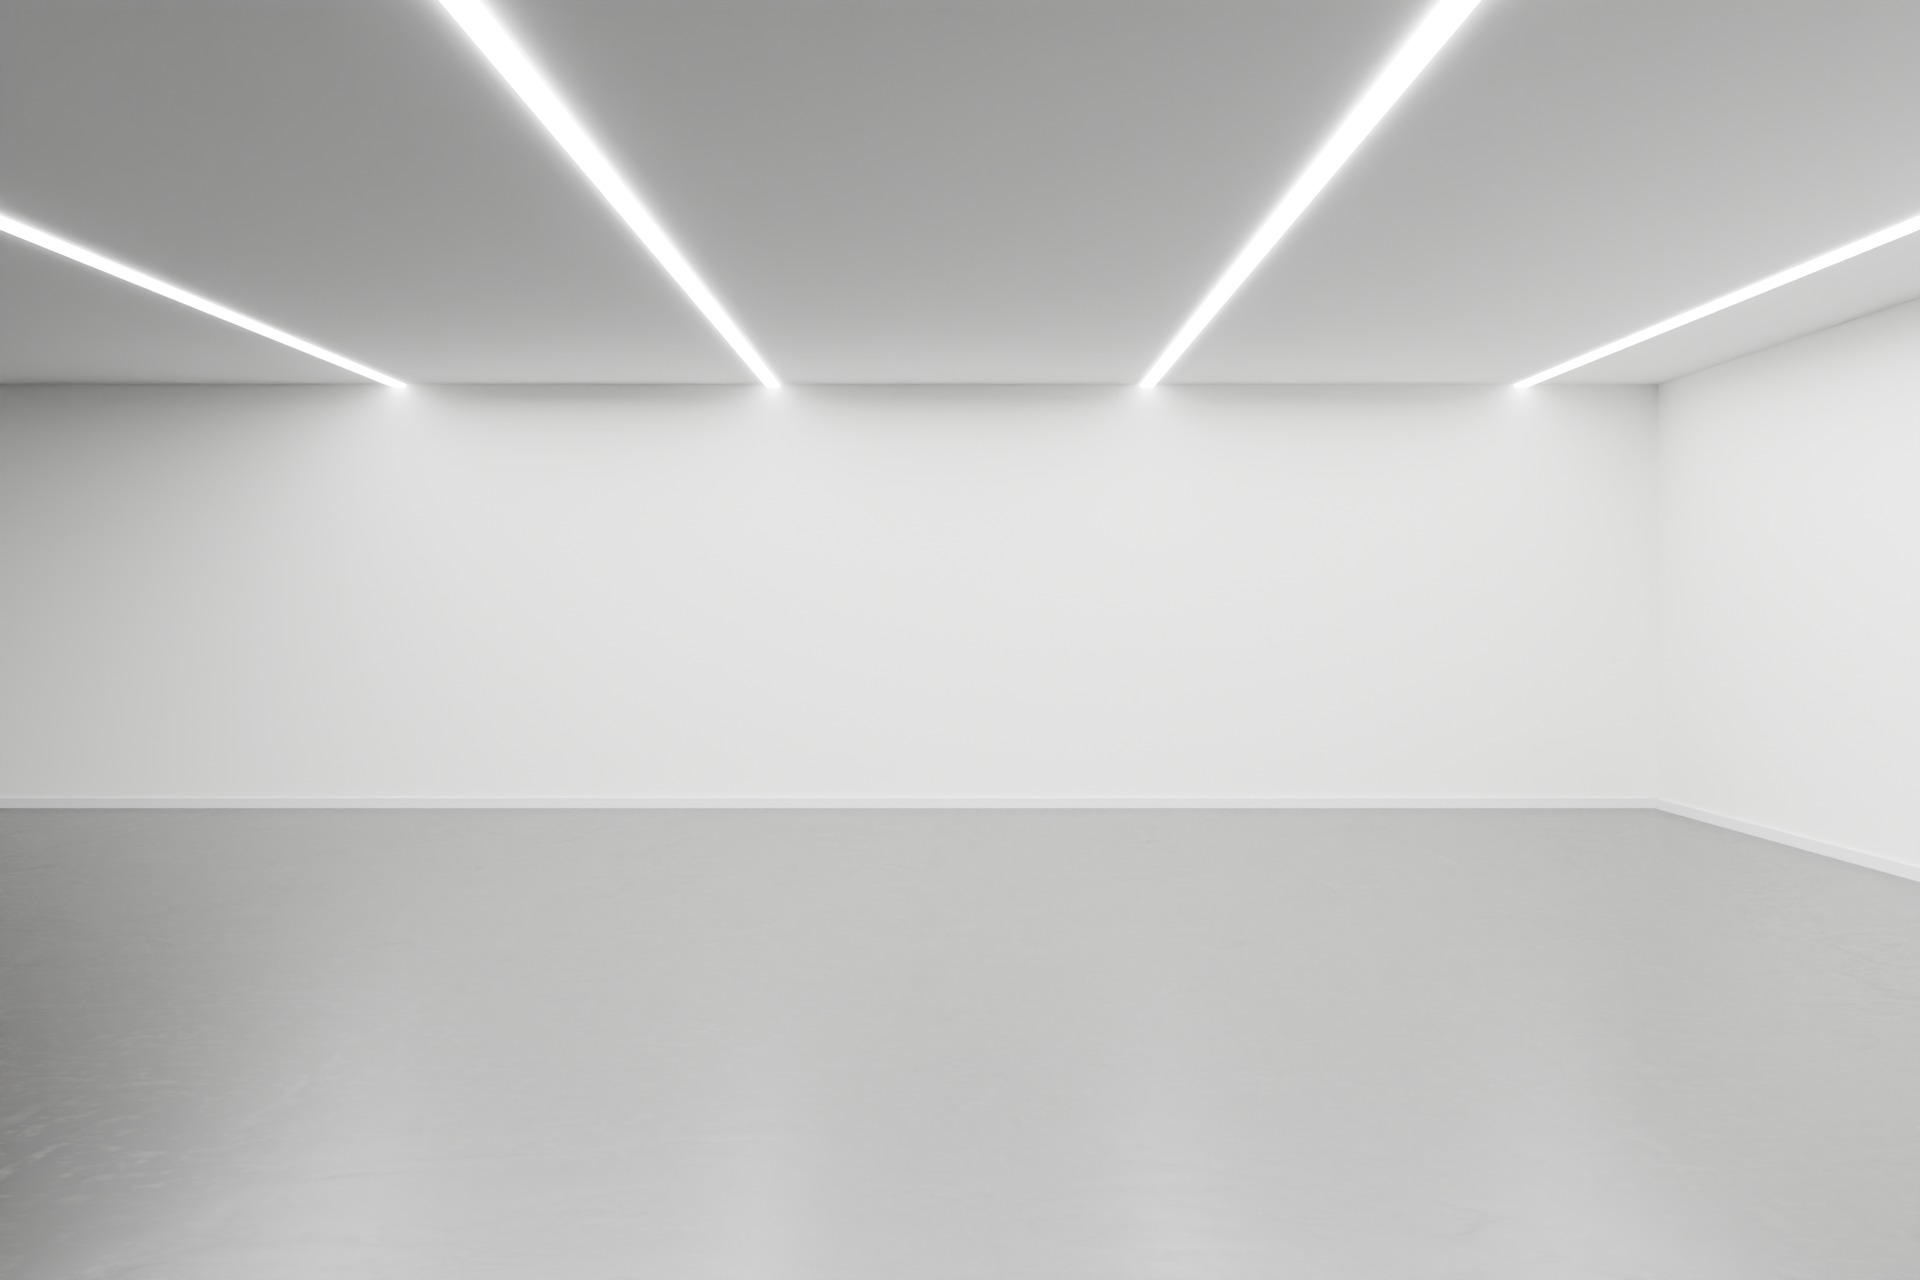
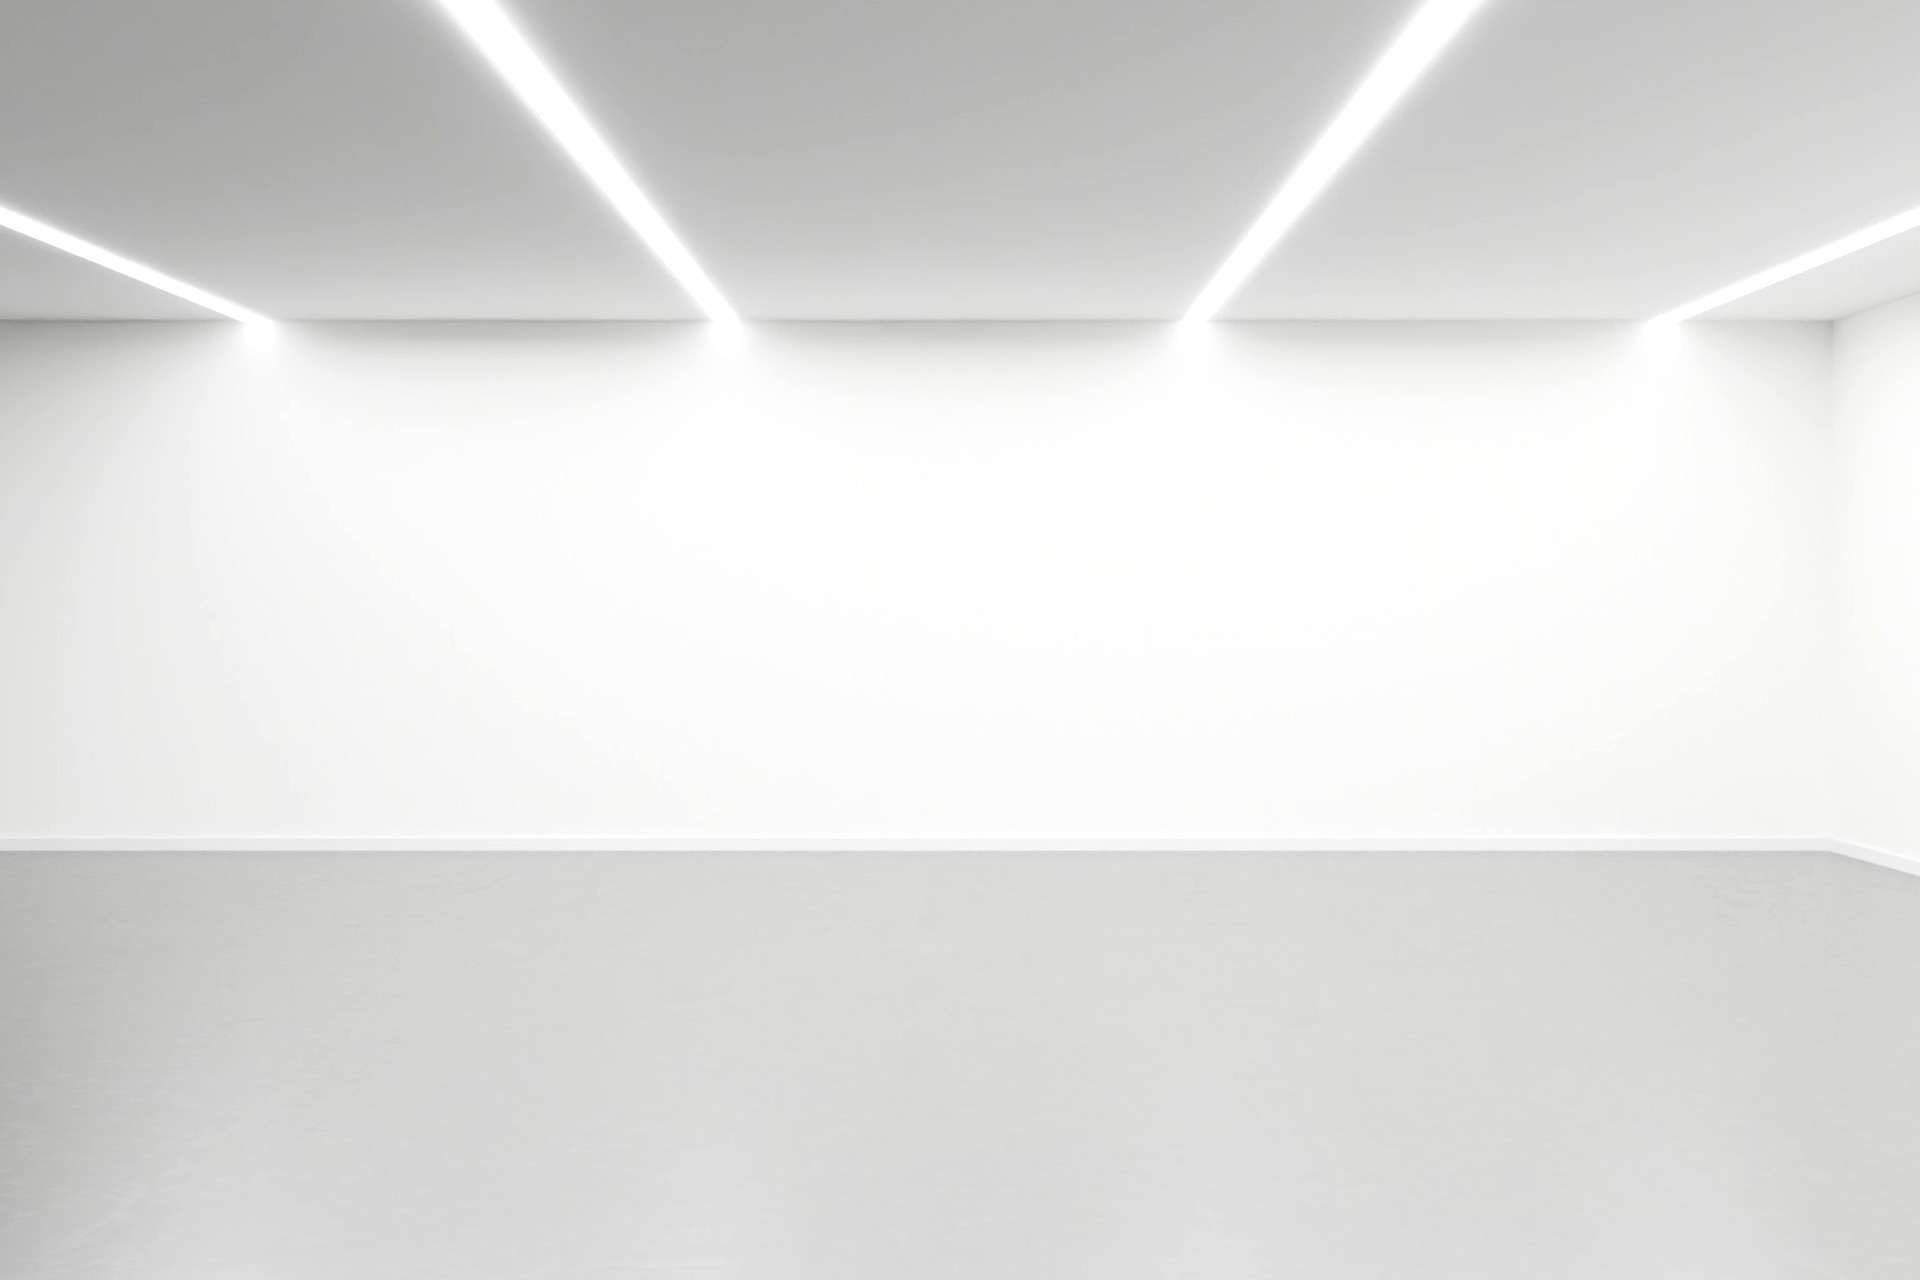
Raeume naeher herangeholt und aufgehellt, Fahrzeug nimmt 52 statt 60 Prozent der Breite

diff --git a/scripts/raeume-zoomen.ts b/scripts/raeume-zoomen.ts
@@ -1,0 +1,87 @@
+/*
+ * Alle Hintergruende naeher heranholen und aufhellen.
+ *
+ * ── Warum Zuschnitt und nicht "Auto kleiner" ──────────────────────
+ *
+ * Die Raeume wirkten eng und die Fahrzeuge zu gross. Das Fahrzeug
+ * kleiner zu rechnen waere der falsche Hebel: Dann steht ein winziges
+ * Auto in einem winzigen Raum, das Verhaeltnis bleibt gleich.
+ *
+ * Ein Zuschnitt dreht das Verhaeltnis wirklich um. Wird aus dem Bild
+ * ein Ausschnitt von 80 Prozent herausgeschnitten und wieder auf die
+ * volle Groesse gezogen, wachsen Wand, Boden und Leuchten um ein
+ * Viertel — das Fahrzeug aber nicht. Es wirkt dadurch kleiner, und der
+ * Raum groesser.
+ *
+ * ── Warum die .json mitwandern muss ───────────────────────────────
+ *
+ * Neben jedem Raum stehen Horizont und Wandlinie als Anteil der
+ * Bildhoehe. Nach einem Zuschnitt stimmen diese Anteile nicht mehr:
+ * Was vorher bei 46 Prozent lag, liegt im Ausschnitt woanders. Ohne
+ * Umrechnung wuerde der Kompositor das Fahrzeug an der falschen Stelle
+ * absetzen — es stuende in der Wand oder schwebte.
+ *
+ * Aufruf:
+ *   npx tsx scripts/raeume-zoomen.ts [anteil] [helligkeit]
+ *   npx tsx scripts/raeume-zoomen.ts 0.8 1.08
+ */
+import fs from 'fs';
+import path from 'path';
+import sharp from 'sharp';
+
+sharp.concurrency(1);
+
+const ORDNER = 'public/backgrounds/raum';
+const SICHERUNG = 'tools/proben/raeume_original';
+
+/** Rechnet einen Anteil der Bildhoehe auf den Ausschnitt um. */
+function imAusschnitt(wert: number, anteil: number): number {
+  const rand = (1 - anteil) / 2;
+  return Math.max(0, Math.min(1, (wert - rand) / anteil));
+}
+
+async function main() {
+  const anteil = Number(process.argv[2] ?? '0.8');
+  const helligkeit = Number(process.argv[3] ?? '1.08');
+  if (anteil <= 0.3 || anteil > 1) throw new Error('Anteil muss zwischen 0,3 und 1 liegen');
+
+  fs.mkdirSync(SICHERUNG, { recursive: true });
+  const dateien = fs.readdirSync(ORDNER).filter((d) => d.endsWith('.jpg'));
+
+  for (const datei of dateien) {
+    const quelle = path.join(ORDNER, datei);
+    const sicher = path.join(SICHERUNG, datei);
+    /* Nur beim ersten Lauf sichern, sonst waere die Sicherung selbst zugeschnitten. */
+    if (!fs.existsSync(sicher)) fs.copyFileSync(quelle, sicher);
+
+    const roh = fs.readFileSync(sicher);
+    const meta = await sharp(roh).metadata();
+    const b = meta.width ?? 0, h = meta.height ?? 0;
+    if (!b || !h) { console.log('uebersprungen (keine Masse):', datei); continue; }
+
+    const nb = Math.round(b * anteil), nh = Math.round(h * anteil);
+    const neu = await sharp(roh)
+      .extract({ left: Math.round((b - nb) / 2), top: Math.round((h - nh) / 2), width: nb, height: nh })
+      .resize(b, h, { fit: 'fill' })
+      .modulate({ brightness: helligkeit })
+      .jpeg({ quality: 92, chromaSubsampling: '4:4:4' })
+      .toBuffer();
+    fs.writeFileSync(quelle, neu);
+
+    /* Horizont und Wandlinie mitziehen. */
+    const jsonPfad = quelle.replace(/\.jpg$/, '.json');
+    const jsonSicher = sicher.replace(/\.jpg$/, '.json');
+    if (fs.existsSync(jsonPfad)) {
+      if (!fs.existsSync(jsonSicher)) fs.copyFileSync(jsonPfad, jsonSicher);
+      const daten = JSON.parse(fs.readFileSync(jsonSicher, 'utf8'));
+      if (typeof daten.horizont === 'number') daten.horizont = Number(imAusschnitt(daten.horizont, anteil).toFixed(4));
+      if (typeof daten.wandlinie === 'number') daten.wandlinie = Number(imAusschnitt(daten.wandlinie, anteil).toFixed(4));
+      daten.zuschnitt = anteil;
+      fs.writeFileSync(jsonPfad, JSON.stringify(daten, null, 2));
+    }
+    console.log('fertig:', datei);
+  }
+  console.log(`\n${dateien.length} Raeume auf ${Math.round(anteil * 100)} % zugeschnitten, Helligkeit ${helligkeit}`);
+}
+
+main();

diff --git a/lib/studio/kompositor.ts b/lib/studio/kompositor.ts
@@ -123,7 +123,15 @@ export const STANDARD: KompositorEinstellungen = {
    * hingestellt statt aufgenommen. Mit Boden davor sitzt er sofort
    * richtig.
    */
-  breitenanteil:     0.60,
+  /*
+   * 0,52 statt 0,60.
+   *
+   * Bei 60 Prozent Bildbreite wirkte das Fahrzeug groesser als der Raum
+   * — besonders bei SUVs. Echte Haendlerfotos lassen deutlich mehr Luft;
+   * auf den Vorlagen von ClassicBid und Autohero nimmt der Wagen rund die
+   * Haelfte der Breite ein.
+   */
+  breitenanteil:     0.52,
   bodenabstand:      0.16,
   ausrichtung:       0.50,
   /*
